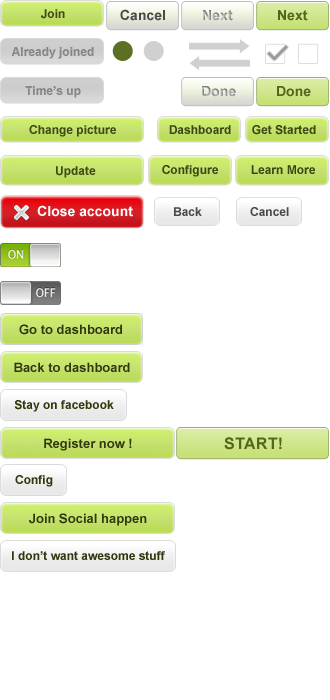
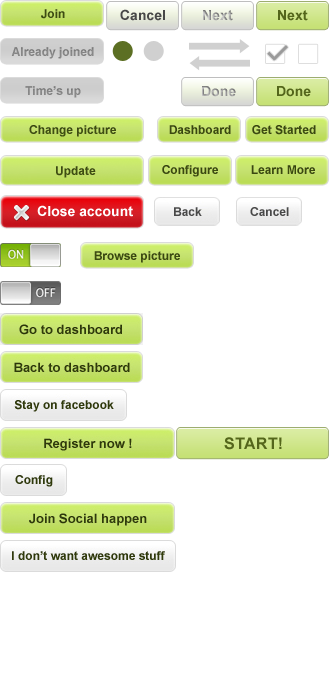
Added browse-picture button in app-component-setting

Changed region(s): [[0.2424, 0.33, 0.6061, 0.39]]

diff --git a/assets/css/common/api_app_bar.css b/assets/css/common/api_app_bar.css
@@ -715,7 +715,7 @@ div.popup-fb-signup-page {
 *.bt-back_dashboard, *.bt-config, *.bt-stay_fb, *.bt-register-now, *.bt-join-social, *.bt-don-awesome,
 .bt-next, .bt-next-inactive, .bt-cancel, .bt-done, .bt-done-inactive, .bt-start, 
 .bt-dashboard, .bt-get-started, .bt-configure, .bt-learn-more,
-.bt-update, .bt-back, .bt-cancal-2, .checkbox_switch {
+.bt-update, .bt-back, .bt-cancal-2, .checkbox_switch, .bt-browse_pic {
 	background: url(../../images/bg_fb/bg_button_2.png) no-repeat;
 	cursor: pointer;
 	border: none;
@@ -790,6 +790,7 @@ div.popup-fb-signup-page {
 .checkbox_switch { width: 61px; height: 24px; background-position: 0 -281px; text-indent:0;}
 .checkbox_switch input { display:none;}
 .checkbox_switch.on { background-position: 0 -243px; }
+.bt-browse_pic { width: 114px; height: 27px; background-position: -80px -242px; }
 .bt-addnew_campaign { width: 175px; height: 32px; background-position: 0 -445px; }
 
 #sh-bar ul.menu > li.notification a.amount {

diff --git a/application/views/settings/app_component/invite.php b/application/views/settings/app_component/invite.php
@@ -19,9 +19,17 @@ echo form_open('settings/app_component_invite/'.$app_install_id.'/'.$campaign_id
 <ul>
 <li <?php echo form_error('invite_image') ? 'class="error"' : ''; ?>>
         <label for="invite_image">Picture : <span class="required">*</span></label>
-        <div class="inputs">
-                <input id="invite_image" type="text" name="invite_image" maxlength="255" value="<?php echo set_value('invite_image',$invite['message']['image']); ?>"  />
-        <div>
+        <div class="upload-pic">
+                <?php if($invite['message']['image']) { ?>
+                <p class="pic">
+                        <img src="<?php echo $invite['message']['image']; ?>" width="64" height="64" />
+                </p>
+                <?php } ?>
+                <p class="browse">
+                            <input id="invite_image" type="file" name="invite_image" style="opacity:0;filter: Alpha(Opacity=0);height:29px;position: absolute;width: 114px; ">
+                            <a class="bt-browse_pic" href="#"><span>Browse picture</span></a>
+                </p>
+        </div>
 </li>
 
 <li <?php echo form_error('invite_title') ? 'class="error"' : ''; ?>>
@@ -50,7 +58,7 @@ echo form_open('settings/app_component_invite/'.$app_install_id.'/'.$campaign_id
 <li <?php echo form_error('invite_cooldown') ? 'class="error"' : ''; ?>>
         <label for="invite_cooldown">Invite cooldown : <span class="required">*</span></label>
         <input id="invite_cooldown" type="text" name="invite_cooldown"  value="<?php echo set_value('invite_cooldown',$invite['criteria']['cooldown']); ?>"  />
-        Min.
+        Hour(s)
 </li <?php echo form_error('invite_score') ? 'class="error"' : ''; ?>>
 
 <li <?php echo form_error('maximum_invite') ? 'class="error"' : ''; ?>>

diff --git a/application/views/settings/app_component/sharebutton.php b/application/views/settings/app_component/sharebutton.php
@@ -18,8 +18,16 @@ echo form_open('settings/app_component_sharebutton/'.$app_install_id.'/'.$campai
 <ul>
 <li <?php echo form_error('share_image') ? 'class="error"' : ''; ?>>
         <label for="share_image">Picture : <span class="required">*</span></label>
-        <div class="inputs">
-                <input id="share_image" type="text" name="share_image"  value="<?php echo set_value('share_image',$sharebutton['message']['image']); ?>"  />
+        <div class="upload-pic">
+                <?php if($sharebutton['message']['image']) { ?>
+                <p class="pic">
+                        <img src="<?php echo $sharebutton['message']['image']; ?>" width="64" height="64" />
+                </p>
+                <?php } ?>
+                <p class="browse">
+                            <input id="share_image" type="file" name="share_image" style="opacity:0;filter: Alpha(Opacity=0);height:29px;position: absolute;width: 114px; ">
+                            <a class="bt-browse_pic" href="#"><span>Browse picture</span></a>
+                </p>
         </div>
 </li>
 
@@ -56,7 +64,7 @@ echo form_open('settings/app_component_sharebutton/'.$app_install_id.'/'.$campai
 <li <?php echo form_error('share_cooldown') ? 'class="error"' : ''; ?>>
         <label for="share_cooldown">Share Cooldown : <span class="required">*</span></label>
         <input id="share_cooldown" type="text" name="share_cooldown"  value="<?php echo set_value('share_cooldown',$sharebutton['criteria']['cooldown']); ?>"  />
-        Min.
+        Hour(s)
 </li>
 
 <li <?php echo form_error('share_maximum') ? 'class="error"' : ''; ?>>

diff --git a/application/views/settings/app_component/homepage.php b/application/views/settings/app_component/homepage.php
@@ -12,8 +12,16 @@ echo form_open('settings/app_component_homepage/'.$app_install_id.'/'.$campaign_
 </li> 
 <li <?php echo form_error('graphic') ? 'class="error"' : ''; ?>>
         <label for="graphic">Graphic : <span class="required">*</span></label>
-        <div class="inputs">
-                <input id="graphic" type="text" name="graphic" maxlength="255" value="<?php echo set_value('graphic', $homepage['image']); ?>"  />
+        <div class="upload-pic">
+                <?php if($homepage['image']) { ?>
+                <p class="pic">
+                        <img src="<?php echo $homepage['image']; ?>" width="64" height="64" />
+                </p>
+                <?php } ?>
+                <p class="browse">
+                            <input id="graphic" type="file" name="graphic" style="opacity:0;filter: Alpha(Opacity=0);height:29px;position: absolute;width: 114px; ">
+                            <a class="bt-browse_pic" href="#"><span>Browse picture</span></a>
+                </p>
         </div>
 </li>
 
